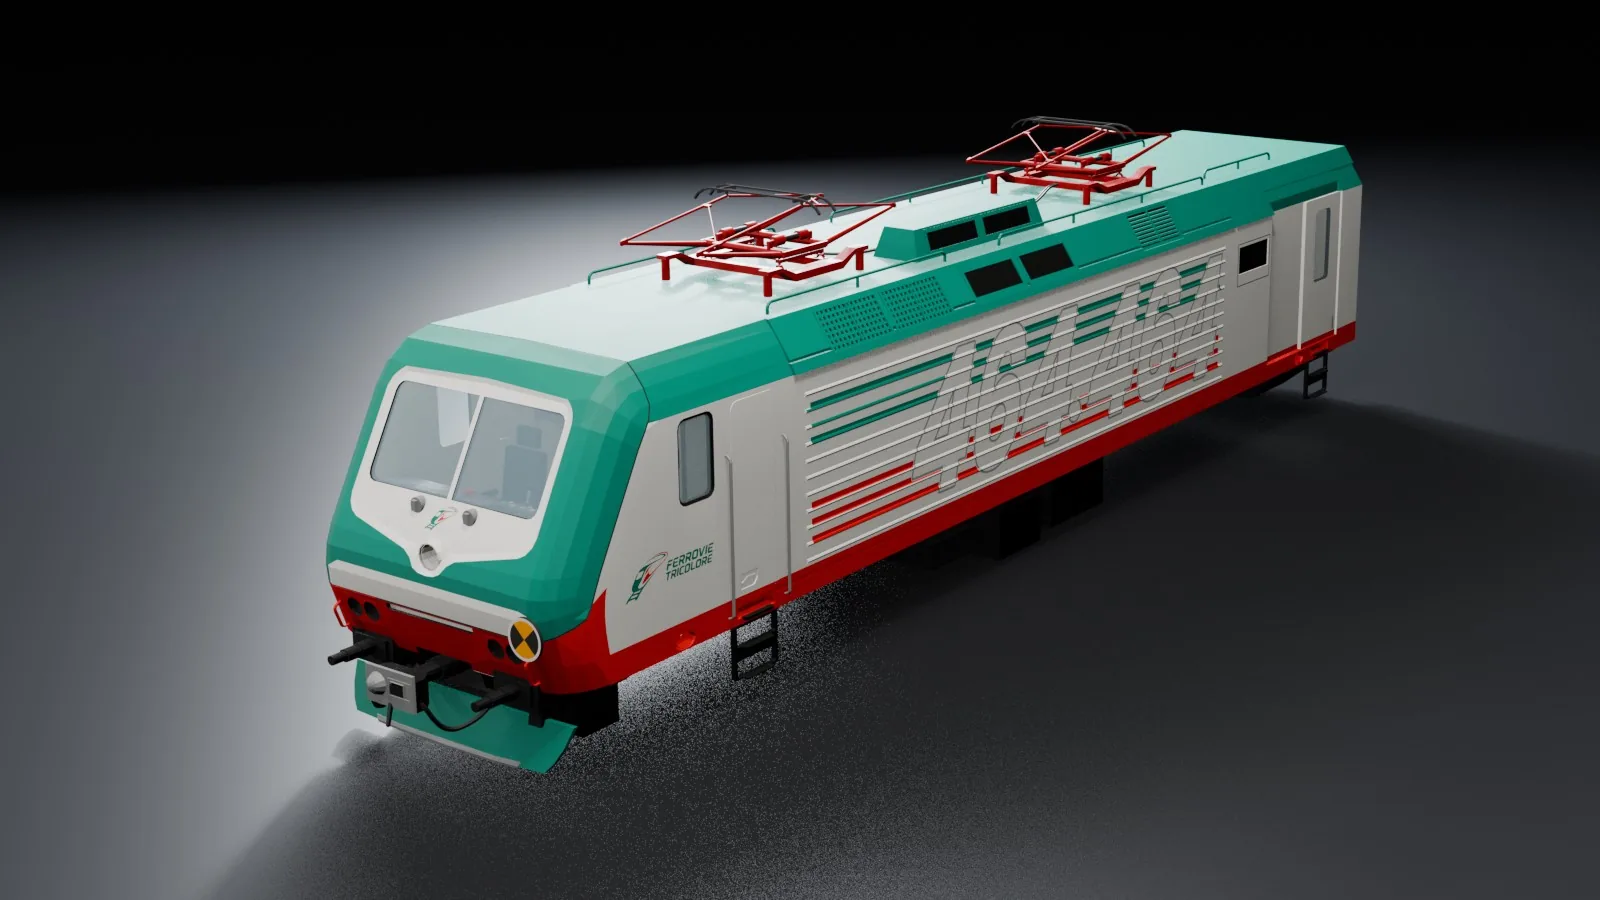
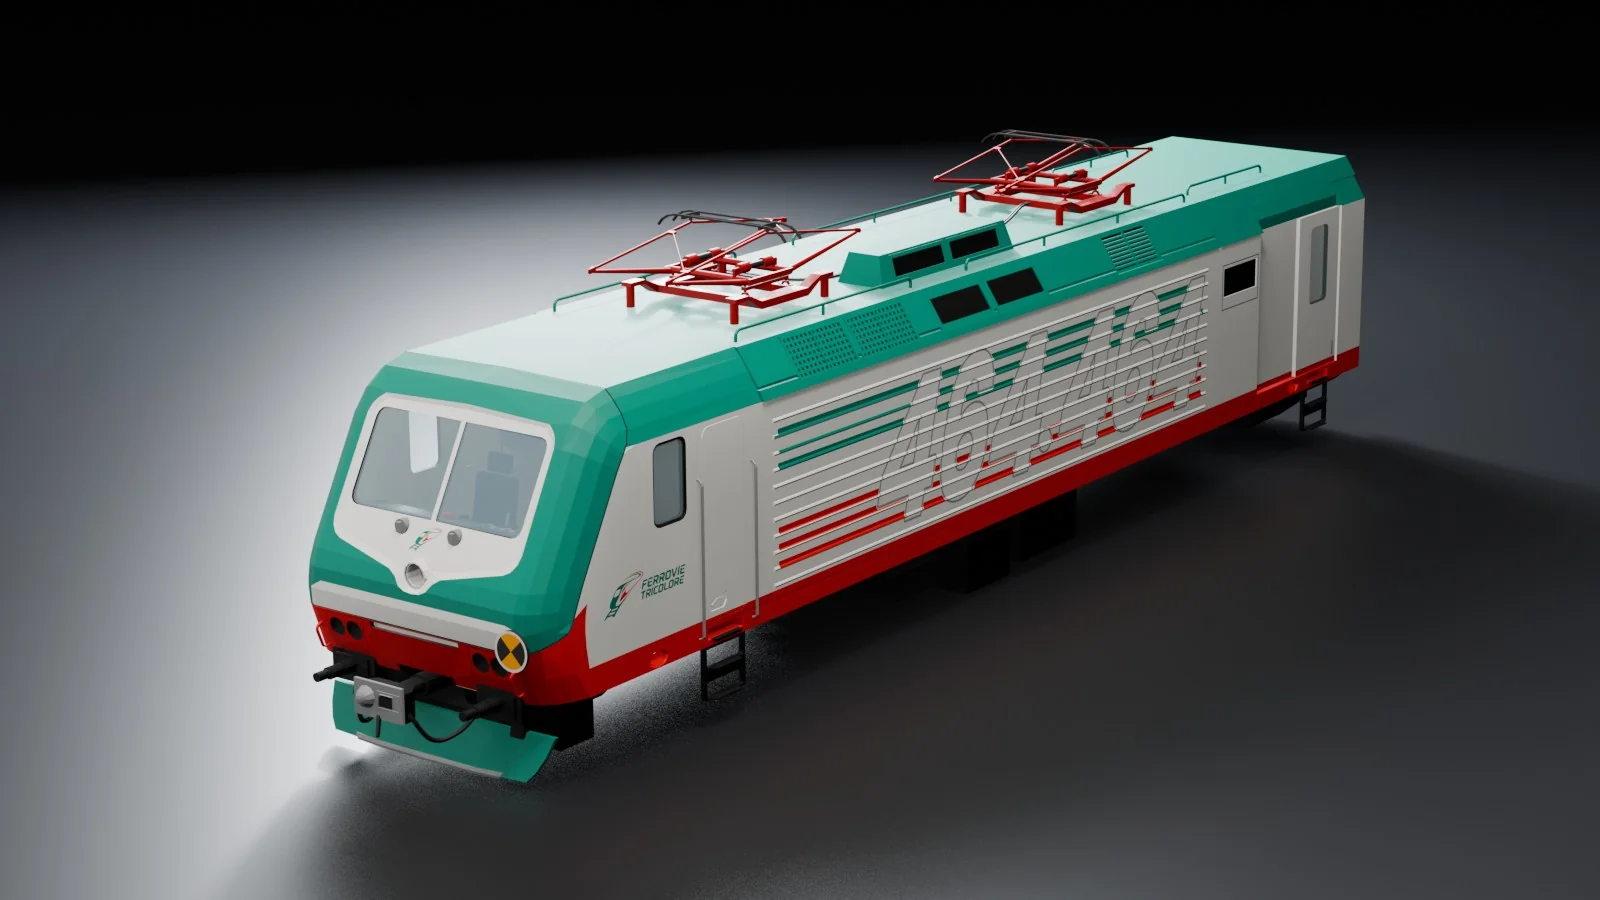
Render rifatti senza oggetti nascosti, qualità più alta; aggiunge Mazinga, Porta Nuova e Soldier Walker in studio
Claude-Session: https://claude.ai/code/session_01B7onDLjGyJArFQg9rAXx1W

diff --git a/index.html b/index.html
@@ -147,7 +147,7 @@
             data-desc="Locomotive, elettrotreni e carrozze italiane modellate in Blender per il simulatore Ferrovie Tricolore."
             data-tools="Blender, Roblox Studio"
             data-note="Asset game-ready per Roblox: E464 in più livree, E646, E652/E656, Vectron, ETR 400 Frecciarossa 1000, il treno POP in livrea InterCity, carrozze MDVE e piano ribassato. Geometria tenuta leggera per girare in Roblox, livree dipinte sui materiali. Render studio in Eevee."
-            data-images="assets/ft-pop-intercity.webp|assets/ft-e464-tricolore.webp|assets/ft-etr400.webp|assets/ft-e464-ic2024.webp|assets/ft-e464-trenord.webp|assets/ft-e464-regionale.webp|assets/ft-e646-treno-azzurro.webp|assets/ft-e652-e656.webp|assets/ft-vectron.webp|assets/ft-mdve-ic2024.webp|assets/ft-cdptr-xmpr.webp" tabindex="0" role="button">
+            data-images="assets/ft-pop-intercity.webp|assets/ft-e464-tricolore.webp|assets/ft-etr400.webp|assets/ft-e464-ic2024.webp|assets/ft-e464-trenord.webp|assets/ft-e464-regionale.webp|assets/ft-e646-treno-azzurro.webp|assets/ft-e652-e656.webp|assets/ft-vectron.webp|assets/ft-mdve-ic2024.webp|assets/ft-cdptr-xmpr.webp|assets/ft-mazinga-dpr.webp" tabindex="0" role="button">
             <div class="case-bg" data-bg="assets/ft-pop-intercity.webp"></div>
             <div class="case-info">
               <div class="badges"></div>
@@ -216,7 +216,7 @@
             data-desc="Personaggio 3D con studio materiali, sculpt e posing."
             data-tools="Blender, Substance Painter, Photoshop"
             data-note="Character modeling completo: sculpt hi-poly, retopology manuale per uso real-time, UV mapping, texturing con Substance Painter. Studio dei materiali (metallo, tessuto, cuoio). Posing finale con skeleton e weight painting."
-            data-images="assets/soldier3.webp|assets/soldier.webp|assets/soldier2.webp" tabindex="0" role="button">
+            data-images="assets/soldier3.webp|assets/soldier.webp|assets/soldier2.webp|assets/soldier-walker-studio.webp" tabindex="0" role="button">
             <div class="case-bg" data-bg="assets/soldier3.webp"></div>
             <div class="case-info">
               <div class="badges"></div>
@@ -802,6 +802,7 @@
             <figure><img src="assets/ft-vectron.webp" alt="VECTRON" width="1600" height="900" loading="lazy" decoding="async"></figure>
             <figure><img src="assets/ft-mdve-ic2024.webp" alt="MDVE IC2024" width="1600" height="900" loading="lazy" decoding="async"></figure>
             <figure><img src="assets/ft-cdptr-xmpr.webp" alt="CDPTR XMPR" width="1600" height="900" loading="lazy" decoding="async"></figure>
+            <figure><img src="assets/ft-mazinga-dpr.webp" alt="Mazinga DPR" width="1600" height="900" loading="lazy" decoding="async"></figure>
           </div>
         </div>
 
@@ -810,7 +811,7 @@
           <div class="ft-gallery">
             <figure><img src="assets/ft-1.webp" alt="Treni in sosta nel deposito di Porta Nuova" width="1200" height="750" loading="lazy" decoding="async" onerror="this.parentElement.remove()"></figure>
             <figure><img src="assets/ft-2.webp" alt="Linea aerea sui binari di Torino Lingotto" width="1200" height="750" loading="lazy" decoding="async" onerror="this.parentElement.remove()"></figure>
-            <figure><img src="assets/ft-lingotto-osm.webp" alt="Layout di Torino Lingotto generato da dati OpenStreetMap" width="1600" height="900" loading="lazy" decoding="async"></figure>
+            <figure><img src="assets/ft-porta-nuova.webp" alt="Stazione di Torino Porta Nuova, modello 3D" width="1600" height="900" loading="lazy" decoding="async"></figure>
             <figure><img src="assets/ft-3.webp" alt="Tornelli di accesso ai binari 1-8" width="1200" height="750" loading="lazy" decoding="async" onerror="this.parentElement.remove()"></figure>
           </div>
         </div>
